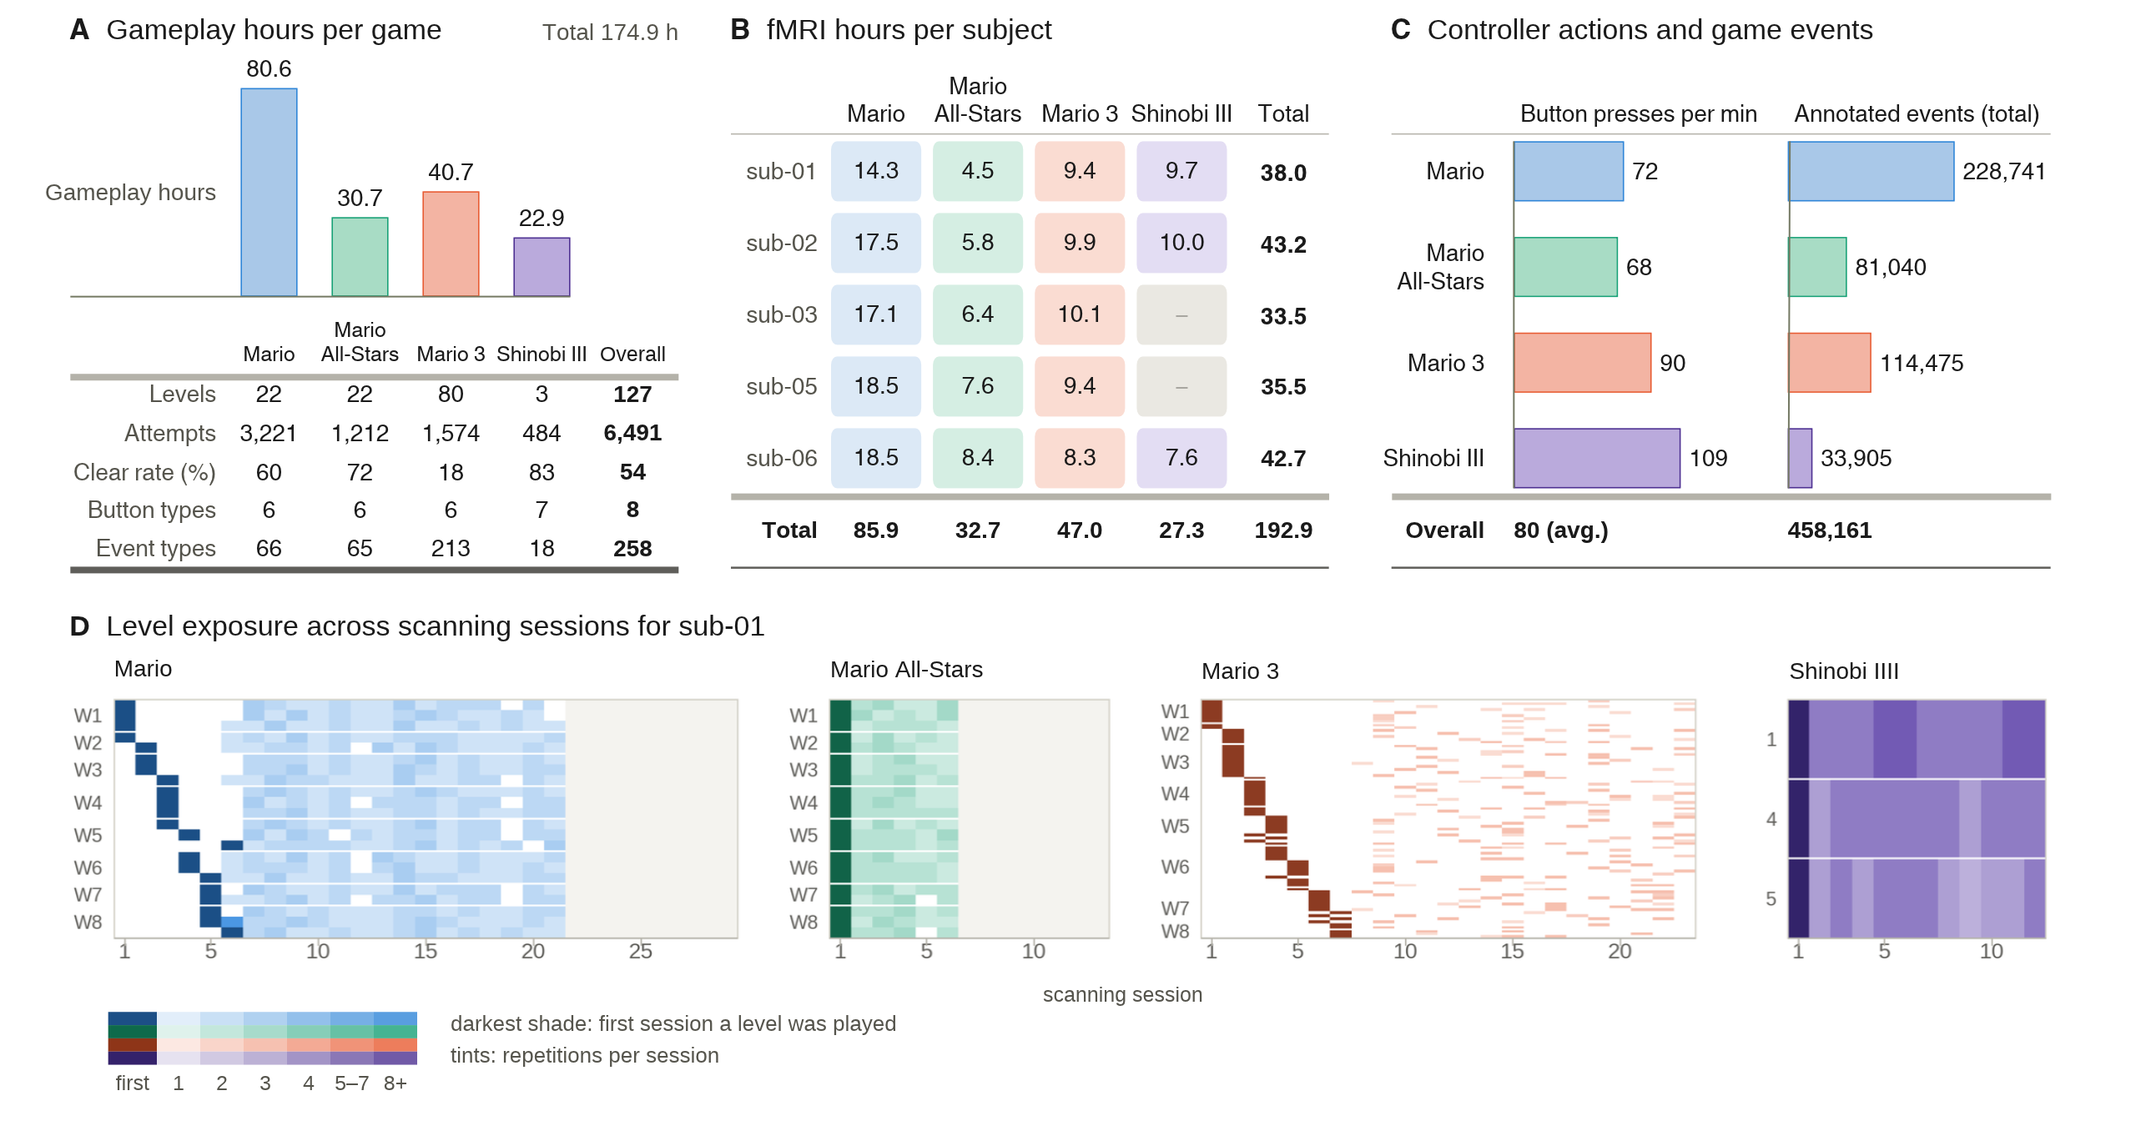
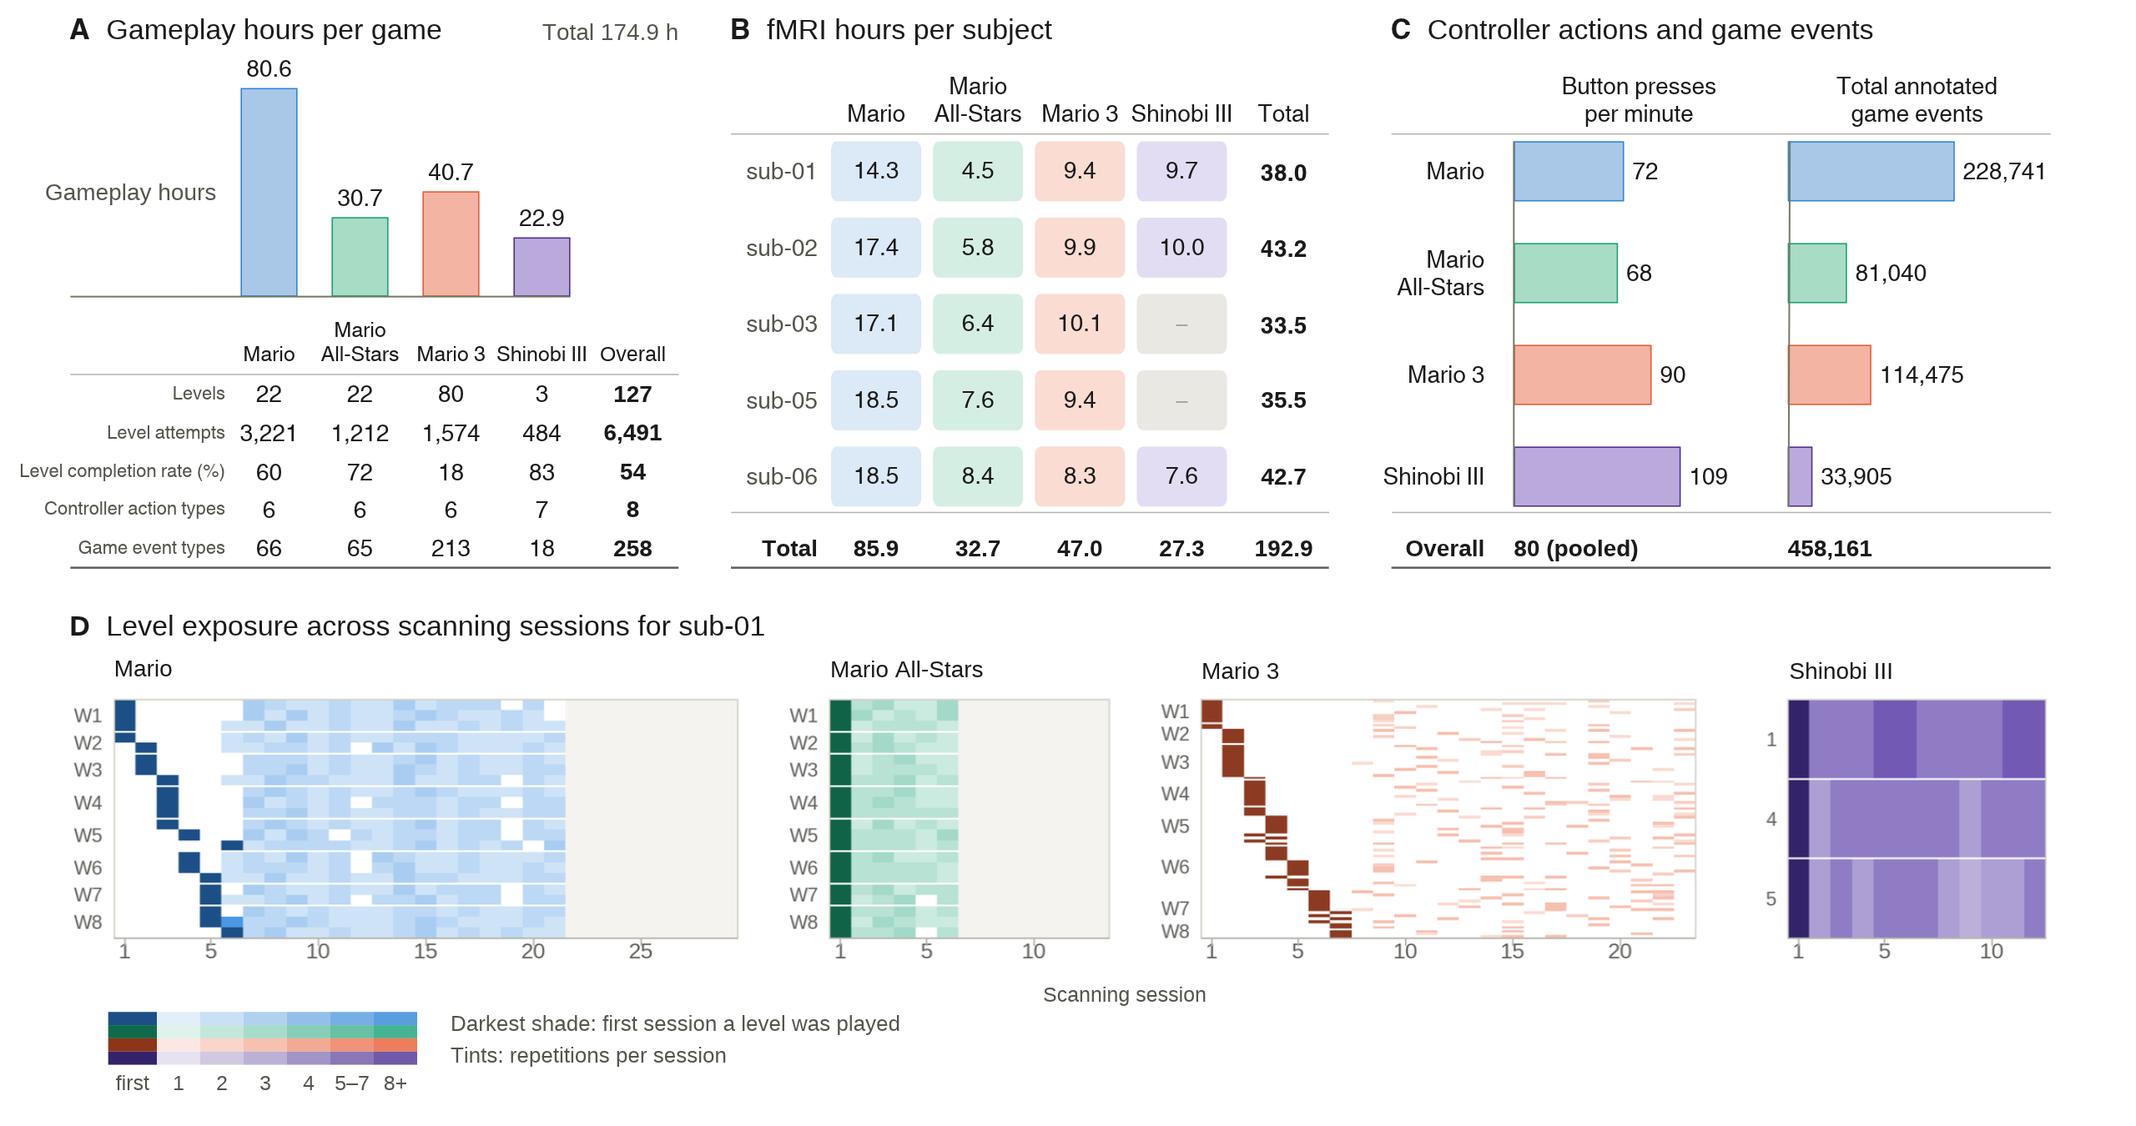
updates

diff --git a/2027/data.html b/2027/data.html
@@ -93,12 +93,12 @@
     <div class="hud" role="region" aria-label="Dataset at a glance">
         <div class="hud-inner">
             <div class="hud-item"><span class="hud-k">Gameplay</span><span class="hud-v">~174 h</span></div>
-            <div class="hud-item"><span class="hud-k">fMRI</span><span class="hud-v">212.5 h</span></div>
+            <div class="hud-item"><span class="hud-k">fMRI</span><span class="hud-v">~192 h</span></div>
             <div class="hud-item"><span class="hud-k">Games</span><span class="hud-v">4 + hidden</span></div>
-            <div class="hud-item"><span class="hud-k">Subjects</span><span class="hud-v">6</span></div>
+            <div class="hud-item"><span class="hud-k">Subjects</span><span class="hud-v">5</span></div>
             <div class="hud-item"><span class="hud-k">Brain parcels</span><span class="hud-v">1,134</span></div>
             <div class="hud-item"><span class="hud-k">Sampling (TR)</span><span class="hud-v">1.49 s</span></div>
-            <p class="hud-note">The four challenge games contain approximately 174 hours of gameplay, with about 144 hours for model training and 30 hours for ID testing. The 212.5 hours of fMRI include periods outside active gameplay, such as loading screens and fixation periods. For ID and OOD testing, participants predict only fMRI responses corresponding to gameplay. Six subjects contribute data, and five are tested.</p>
+            <p class="hud-note">The four challenge games contain approximately 174 hours of gameplay, with about 144 hours for model training and 30 hours for ID testing. The 192 hours of fMRI include periods outside active gameplay, such as loading screens and fixation periods. For ID and OOD testing, participants predict only fMRI responses corresponding to gameplay. All five subjects are tested.</p>
         </div>
     </div>
 
@@ -153,17 +153,17 @@
                     <li class="cat-item">
                         <div class="cat-shot"><img src="img/games/cat_mario_w1l1.png" alt="Super Mario Bros. gameplay in World 1-1: Mario stands on a row of bricks and ? blocks, a Goomba walks below" width="672" height="378" loading="lazy"></div>
                         <div><h3>Super Mario Bros.</h3>
-                        <p class="cat-meta"><span>22 levels</span> · <span>3,374 attempts</span></p></div>
+                        <p class="cat-meta"><span>22 levels</span> · <span>3,221 attempts</span></p></div>
                     </li>
                     <li class="cat-item">
                         <div class="cat-shot"><img src="img/games/cat_mario3.png" alt="Super Mario Bros. 3 gameplay: Mario jumps past a Piranha Plant in a pipe" width="720" height="405" loading="lazy"></div>
                         <div><h3>Super Mario Bros. 3</h3>
-                        <p class="cat-meta"><span>80 levels</span> · <span>1,589 attempts</span></p></div>
+                        <p class="cat-meta"><span>80 levels</span> · <span>1,574 attempts</span></p></div>
                     </li>
                     <li class="cat-item">
                         <div class="cat-shot"><img src="img/games/cat_shinobi.png" alt="Shinobi III gameplay: the ninja jumps through a forest toward an enemy" width="640" height="360" loading="lazy"></div>
                         <div><h3>Shinobi III: Return of the Ninja Master</h3>
-                        <p class="cat-meta"><span>3 levels</span> · <span>666 attempts</span></p></div>
+                        <p class="cat-meta"><span>3 levels</span> · <span>484 attempts</span></p></div>
                     </li>
                 </ul>
             </section>
@@ -174,7 +174,7 @@
                     <h2 id="id-test-title">In-distribution test game</h2>
                     <div class="cat-shot"><img src="img/games/cat_mariostars_w1l1.png" alt="Super Mario All-Stars gameplay at the same spot in World 1-1, with remade graphics: Mario stands on a row of bricks and ? blocks, a Goomba walks below" width="672" height="378" loading="lazy"></div>
                     <div class="tg-title"><h3>Super Mario All-Stars</h3>
-                    <p class="cat-meta"><span>22 levels</span> · <span>1,232 attempts</span></p></div>
+                    <p class="cat-meta"><span>22 levels</span> · <span>1,212 attempts</span></p></div>
                     <div class="tg-text">
                         <p>For ID testing, we use the visually enhanced remake of Super Mario Bros. from Super Mario All-Stars, a collection of four Mario remakes. This remake preserves the original levels and basic actions. We release gameplay data for all 22 recorded levels, comprising approximately 30 hours across subjects, and keep the corresponding fMRI responses hidden.</p>
                     </div>
@@ -199,20 +199,19 @@
             <div class="block-rule coverage-wrap" id="subjects">
                 <div class="prose">
                     <h2>Subjects</h2>
-                    <p>Subject coverage differs across games. Five subjects played the three Mario games and four played
-                    Shinobi III. Subject <span class="subj">sub-04</span> played only Shinobi III. Data from this subject are provided for training only.</p>
+                    <p>Subject coverage differs across games. All five subjects played the three Mario games, and
+                    three of them also played Shinobi III. All five subjects are tested.</p>
                 </div>
                 <div class="table-wrap">
                     <table class="coverage">
                         <caption class="sr-only">Games played by each subject</caption>
-                        <thead><tr><th></th><th scope="col">SMB</th><th scope="col">SMB3</th><th scope="col">Shinobi</th><th scope="col" class="c-gap">All-Stars</th><th scope="col" class="role">Role</th></tr></thead>
+                        <thead><tr><th></th><th scope="col">SMB</th><th scope="col">SMB3</th><th scope="col">Shinobi</th><th scope="col" class="c-gap">All-Stars</th></tr></thead>
                         <tbody>
-                            <tr><th scope="row">sub-01</th><td class="on"><span class="sr-only">played</span></td><td class="on"><span class="sr-only">played</span></td><td class="on"><span class="sr-only">played</span></td><td class="on c-gap"><span class="sr-only">played</span></td><td class="role eval">Tested</td></tr>
-                            <tr><th scope="row">sub-02</th><td class="on"><span class="sr-only">played</span></td><td class="on"><span class="sr-only">played</span></td><td class="on"><span class="sr-only">played</span></td><td class="on c-gap"><span class="sr-only">played</span></td><td class="role eval">Tested</td></tr>
-                            <tr><th scope="row">sub-03</th><td class="on"><span class="sr-only">played</span></td><td class="on"><span class="sr-only">played</span></td><td><span class="sr-only">not played</span></td><td class="on c-gap"><span class="sr-only">played</span></td><td class="role eval">Tested</td></tr>
-                            <tr><th scope="row">sub-04</th><td><span class="sr-only">not played</span></td><td><span class="sr-only">not played</span></td><td class="on"><span class="sr-only">played</span></td><td class="c-gap"><span class="sr-only">not played</span></td><td class="role">Training only</td></tr>
-                            <tr><th scope="row">sub-05</th><td class="on"><span class="sr-only">played</span></td><td class="on"><span class="sr-only">played</span></td><td><span class="sr-only">not played</span></td><td class="on c-gap"><span class="sr-only">played</span></td><td class="role eval">Tested</td></tr>
-                            <tr><th scope="row">sub-06</th><td class="on"><span class="sr-only">played</span></td><td class="on"><span class="sr-only">played</span></td><td class="on"><span class="sr-only">played</span></td><td class="on c-gap"><span class="sr-only">played</span></td><td class="role eval">Tested</td></tr>
+                            <tr><th scope="row">sub-01</th><td class="on"><span class="sr-only">played</span></td><td class="on"><span class="sr-only">played</span></td><td class="on"><span class="sr-only">played</span></td><td class="on c-gap"><span class="sr-only">played</span></td></tr>
+                            <tr><th scope="row">sub-02</th><td class="on"><span class="sr-only">played</span></td><td class="on"><span class="sr-only">played</span></td><td class="on"><span class="sr-only">played</span></td><td class="on c-gap"><span class="sr-only">played</span></td></tr>
+                            <tr><th scope="row">sub-03</th><td class="on"><span class="sr-only">played</span></td><td class="on"><span class="sr-only">played</span></td><td><span class="sr-only">not played</span></td><td class="on c-gap"><span class="sr-only">played</span></td></tr>
+                            <tr><th scope="row">sub-05</th><td class="on"><span class="sr-only">played</span></td><td class="on"><span class="sr-only">played</span></td><td><span class="sr-only">not played</span></td><td class="on c-gap"><span class="sr-only">played</span></td></tr>
+                            <tr><th scope="row">sub-06</th><td class="on"><span class="sr-only">played</span></td><td class="on"><span class="sr-only">played</span></td><td class="on"><span class="sr-only">played</span></td><td class="on c-gap"><span class="sr-only">played</span></td></tr>
                         </tbody>
                     </table>
                 </div>
@@ -221,20 +220,19 @@
             <!-- Figure 2 -->
             <details class="optional" id="coverage-figure">
                 <summary>
-                    <span><span class="s-t">Dataset coverage figure</span><span class="s-d">Levels, attempts, subject coverage and controller use. The image shows earlier data totals.</span></span>
+                    <span><span class="s-t">Dataset coverage figure</span><span class="s-d">Gameplay and fMRI hours, levels, attempts, controller use and game events.</span></span>
                     <span class="s-i"><span class="s-show">Show</span><span class="s-hide">Hide</span></span>
                 </summary>
                 <figure class="figure">
                     <a class="figure-mat fig2-mat only-dark" href="img/Algonauts%202027%20dataset%20overview%20figure%20dark.png" target="_blank" rel="noopener">
-                        <img src="img/Algonauts%202027%20dataset%20overview%20figure%20dark.png" alt="Dataset coverage by game and subject, controller use and level exposure for sub-01. Panels A and B show earlier counts. The caption gives the current totals." width="2560" height="1350" loading="lazy">
+                        <img src="img/Algonauts%202027%20dataset%20overview%20figure%20dark.png" alt="Gameplay hours and level statistics per game, fMRI hours per subject and game (192.9 hours in total), button presses per minute and annotated game events per game, and level exposure across scanning sessions for sub-01." width="2560" height="1350" loading="lazy">
                     </a>
-                    <a class="figure-mat fig2-mat only-light" href="img/fig2_dataset_overview.png" target="_blank" rel="noopener">
-                        <img src="img/fig2_dataset_overview.png" alt="Dataset coverage by game and subject, controller use and level exposure for sub-01. Panels A and B show earlier counts. The caption gives the current totals." width="2560" height="1350" loading="lazy">
+                    <a class="figure-mat fig2-mat only-light" href="img/Algonauts%202027%20dataset%20overview%20figure.png" target="_blank" rel="noopener">
+                        <img src="img/Algonauts%202027%20dataset%20overview%20figure.png" alt="Gameplay hours and level statistics per game, fMRI hours per subject and game (192.9 hours in total), button presses per minute and annotated game events per game, and level exposure across scanning sessions for sub-01." width="2560" height="1350" loading="lazy">
                     </a>
-                    <figcaption><strong>Figure 2 | Scale and coverage of the data.</strong> (A) Gameplay by game. (B) fMRI hours by subject and game.
-                    The counts in A and B differ from the paper’s text, which reports approximately 174 hours of gameplay, 212.5 hours of fMRI and 266 distinct game-event labels across the four games.
-                    (C) Button presses per minute and annotated game events. (D) Level exposure across scanning sessions for sub-01.
-                    <br><a class="fig-open only-dark" href="img/Algonauts%202027%20dataset%20overview%20figure%20dark.png" target="_blank" rel="noopener">Open full size &#8599;</a><a class="fig-open only-light" href="img/fig2_dataset_overview.png" target="_blank" rel="noopener">Open full size &#8599;</a></figcaption>
+                    <figcaption><strong>Figure 2 | Scale and coverage of the data.</strong> (A) Gameplay hours per game, with levels, level attempts, level completion rate, controller action types and game event types. (B) fMRI hours per subject and game.
+                    (C) Button presses per minute and total annotated game events per game. (D) Level exposure across scanning sessions for sub-01.
+                    <br><a class="fig-open only-dark" href="img/Algonauts%202027%20dataset%20overview%20figure%20dark.png" target="_blank" rel="noopener">Open full size &#8599;</a><a class="fig-open only-light" href="img/Algonauts%202027%20dataset%20overview%20figure.png" target="_blank" rel="noopener">Open full size &#8599;</a></figcaption>
                 </figure>
             </details>
         </div>
@@ -381,7 +379,7 @@
                     <code>Action/Jump</code>, <code>Action/Attack</code>, …</dd>
                     <dt>Game events</dt>
                     <dd>Occurrences such as <code>Item_collected/Coin</code>, <code>Enemy_defeated/Stomp/Goomba</code>,
-                    <code>Player_damaged</code> or <code>Level_completed</code>: 266 distinct labels across the four games, each
+                    <code>Player_damaged</code> or <code>Level_completed</code>: 258 distinct labels across the four games, each
                     described in natural language in <code>task-&lt;game&gt;_events.json</code>.</dd>
                     <dt>Timing</dt>
                     <dd>A scanning session contains several fMRI runs, and each run contains several gameplay repetitions. Each run

diff --git a/2027/challenge.html b/2027/challenge.html
@@ -163,7 +163,7 @@
             </div>
 
             <div class="prose block">
-                <p>We provide gameplay video, audio, controller actions and game event annotations aligned with fMRI responses from six subjects.
+                <p>We provide gameplay video, audio, controller actions and game event annotations aligned with fMRI responses from five subjects.
                 We release both gameplay data and fMRI responses for the three model training games. For both test sets, we release all gameplay data and keep the corresponding fMRI responses hidden.
                 Participants submit predicted fMRI responses to Codabench for scoring.</p>
                 <div class="btn-row" style="margin-top:22px">
@@ -207,9 +207,8 @@
         <div class="prose">
             <h2>Evaluation and submission</h2>
             <p>For each subject and game, Codabench concatenates the predicted and measured fMRI time series across all corresponding gameplay videos in the test set. It then calculates Pearson’s correlation coefficient (<em>r</em>) between the predicted and measured sequences separately for each of the 1,134 brain parcels. The platform averages the parcel correlations to obtain one score per subject and game. For the OOD test set, which contains multiple games, it averages game scores within each subject, weighting games equally. It then averages the scores across subjects to obtain a single prediction accuracy score per submission for each test set. Codabench uses the ID scores to rank submissions on the public leaderboard during the Development Phase, and the OOD scores to determine the final challenge ranking.</p>
-            <p>Five subjects are tested: <span class="subj">sub-01</span>, <span class="subj">sub-02</span>,
-            <span class="subj">sub-03</span>, <span class="subj">sub-05</span> and <span class="subj">sub-06</span>.
-            Subject <span class="subj">sub-04</span> played only Shinobi III. Data from this subject are provided for training only.</p>
+            <p>All five subjects are tested: <span class="subj">sub-01</span>, <span class="subj">sub-02</span>,
+            <span class="subj">sub-03</span>, <span class="subj">sub-05</span> and <span class="subj">sub-06</span>.</p>
 
             <div class="block" id="submission">
                 <h3>Prepare a submission</h3>

diff --git a/2027/css/draft.css b/2027/css/draft.css
@@ -642,14 +642,10 @@ html[data-theme="light"] .only-dark, html:not([data-theme="light"]) .only-light 
 .coverage thead th { width: 64px; padding: 0 4px 8px; font-size: .8rem; font-weight: 700; color: var(--text); white-space: nowrap;
     background: linear-gradient(var(--line-2), var(--line-2)) bottom / calc(100% - 8px) 1px no-repeat; }
 .coverage thead th:first-child { width: auto; background: none; }
-.coverage thead th.role { width: auto; padding-left: 16px; text-align: left; background-position: bottom right; background-size: calc(100% - 16px) 1px; }
 .coverage tbody th { padding: 0 14px 0 0; height: 30px; text-align: left; font-weight: 600; color: var(--text); white-space: nowrap; }
 .coverage tbody tr:first-child > * { height: 36px; padding-top: 6px; }
 .coverage td::before { content: ""; display: inline-block; width: 12px; height: 12px; vertical-align: middle; border: 1px solid var(--line-2); }
 .coverage td.on::before { background: var(--text); border-color: var(--text); }
-.coverage td.role { padding-left: 16px; text-align: left; font-size: .84rem; color: var(--text-dim); white-space: nowrap; }
-.coverage td.role::before { display: none; }
-.coverage td.eval { color: var(--text); font-weight: 600; }
 .coverage .c-gap { padding-left: 14px; }
 .coverage thead th.c-gap { width: 78px; background-position: bottom right; background-size: calc(100% - 18px) 1px; }
 
@@ -907,10 +903,7 @@ html[data-theme="light"] .social-logos img { filter: brightness(0); opacity: .85
     .frames { grid-template-columns: 1fr; gap: 18px; }
     .coverage { font-size: .8rem; }
     .coverage thead th { width: 44px; padding: 0 2px 8px; font-size: .7rem; background-size: calc(100% - 4px) 1px; }
-    .coverage thead th.role, .coverage td.role { padding-left: 10px; }
-    .coverage thead th.role { background-size: calc(100% - 10px) 1px; }
     .coverage tbody th { padding-right: 8px; }
-    .coverage td.role { font-size: .74rem; }
     .coverage .c-gap { padding-left: 10px; }
     .coverage thead th.c-gap { width: 54px; background-size: calc(100% - 12px) 1px; }
     .fig1-full { display: none; }

diff --git a/2027/index.html b/2027/index.html
@@ -110,7 +110,7 @@
         <div class="hud-inner">
             <div class="hud-item"><span class="hud-k">Status</span><span class="hud-v">Launching December 14, 2026</span></div>
             <div class="hud-item"><span class="hud-k">Games</span><span class="hud-v">4 + hidden</span></div>
-            <div class="hud-item"><span class="hud-k">Subjects</span><span class="hud-v">6</span></div>
+            <div class="hud-item"><span class="hud-k">Subjects</span><span class="hud-v">5</span></div>
             <div class="hud-item"><span class="hud-k">Brain parcels</span><span class="hud-v">1,134</span></div>
             <div class="hud-item"><span class="hud-k">Finale</span><span class="hud-v">CCN 2027 · Edinburgh</span></div>
         </div>
